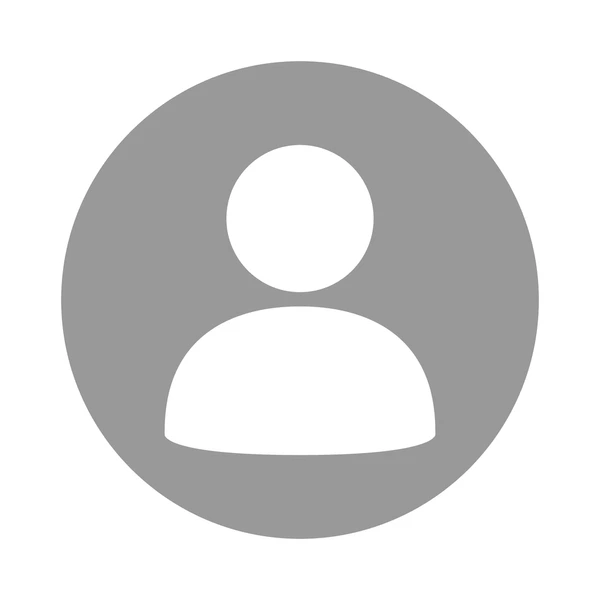
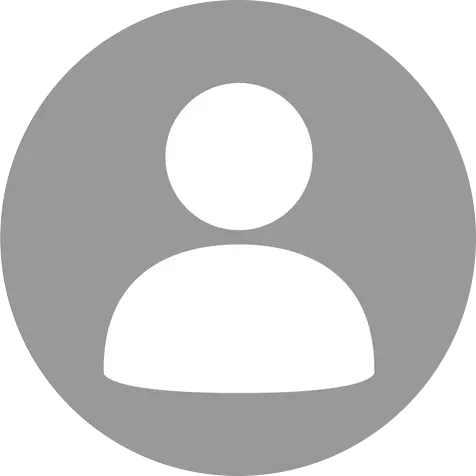
fix: authform

diff --git a/client/src/component/authForm/AuthForm.tsx b/client/src/component/authForm/AuthForm.tsx
@@ -22,8 +22,8 @@ interface AuthInputs {
   email?: string;
   usernameOrEmail?: string;
   password?: string;
-  avatar?: File;
-  coverImage?: File;
+  avatar?: File | null;
+  coverImage?: File | null;
 }
 
 export enum AuthFormType {
@@ -53,7 +53,6 @@ export default function AuthForm({
 
   const handleFormSubmit = (e: ChangeEvent<HTMLFormElement>) => {
     e.preventDefault();
-
     handleSubmit(authInputs);
   };
 
@@ -64,9 +63,11 @@ export default function AuthForm({
   }, [state]);
 
   return (
-    <div className="flex flex-col gap-3 justify-center w-[450px] max-w-[93%] before:content-[''] before:fixed before:z-0 before:h-[90vh] before:w-[12vw] max-md:before:w-[25vw] before:bg-gradient-to-tr before:from-violet-400 before:via-violet-500 before:to-violet-300 before:top-1/2 before:left-1/2 before:-translate-x-1/2 before:-translate-y-1/2 before:rotate-45 md:before:opacity-55 before:opacity-70 after:content-[''] after:fixed after:z-[1] after:h-[100vh] after:w-[100vw] after:top-0 after:left-0 after:right-0 after:bottom-0 after:bg-transparent after:backdrop-blur-3xl">
+    <div className="relative flex flex-col gap-3 justify-center w-[450px] max-w-[93%] before:content-[''] before:fixed before:z-0 before:h-[90vh] before:w-[12vw] max-md:before:w-[25vw] before:bg-gradient-to-tr before:from-violet-400 before:via-violet-500 before:to-violet-300 before:top-1/2 before:left-1/2 before:-translate-x-1/2 before:-translate-y-1/2 before:rotate-45 md:before:opacity-55 before:opacity-70 after:content-[''] after:fixed after:z-[1] after:h-[100vh] after:w-[100vw] after:top-0 after:left-0 after:right-0 after:bottom-0 after:bg-transparent after:backdrop-blur-3xl">
       {/* showing error */}
-      {error && <ErrorMessage errorMessage={error} />}
+      {error && (
+        <ErrorMessage errorMessage={error} className="relative z-[2]" />
+      )}
 
       <form
         onSubmit={handleFormSubmit}
@@ -85,16 +86,14 @@ export default function AuthForm({
             <div className="w-full flex flex-col items-center -mt-7">
               <FileUpload
                 label="Cover Image"
-                defaultImageSrc="/default-cover.png"
+                defaultImageSrc="/default-cover.webp"
                 accept=".png, .jpeg, .jpg"
                 fileType="image"
                 ref={coverImageRef}
                 className="h-24 w-full rounded-md object-cover border-2 border-dashed border-blue-500 overflow-hidden"
+                disabled={isLoading}
                 onChange={(file) =>
-                  setAuthInputs((prev: any) => ({
-                    ...prev,
-                    coverImage: file,
-                  }))
+                  setAuthInputs((prev) => ({ ...prev, coverImage: file }))
                 }
               />
               <FileUpload
@@ -104,11 +103,9 @@ export default function AuthForm({
                 fileType="image"
                 ref={avatarRef}
                 className="h-16 w-16 rounded-full object-cover -mt-8 border-2 border-white overflow-hidden"
+                disabled={isLoading}
                 onChange={(file) =>
-                  setAuthInputs((prev: any) => ({
-                    ...prev,
-                    avatar: file,
-                  }))
+                  setAuthInputs((prev) => ({ ...prev, avatar: file }))
                 }
               />
             </div>
@@ -118,11 +115,9 @@ export default function AuthForm({
               label="Full Name"
               type="text"
               value={authInputs.fullName}
+              disabled={isLoading}
               onChange={(e) =>
-                setAuthInputs((prev) => ({
-                  ...prev,
-                  fullName: e.target.value,
-                }))
+                setAuthInputs((prev) => ({ ...prev, fullName: e.target.value }))
               }
             />
 
@@ -131,11 +126,9 @@ export default function AuthForm({
               label="email"
               type="email"
               value={authInputs.email}
+              disabled={isLoading}
               onChange={(e) =>
-                setAuthInputs((prev) => ({
-                  ...prev,
-                  email: e.target.value,
-                }))
+                setAuthInputs((prev) => ({ ...prev, email: e.target.value }))
               }
             />
           </>
@@ -145,6 +138,7 @@ export default function AuthForm({
             label="Username or Email"
             type="text"
             value={authInputs.usernameOrEmail}
+            disabled={isLoading}
             onChange={(e) =>
               setAuthInputs((prev) => ({
                 ...prev,
@@ -159,17 +153,14 @@ export default function AuthForm({
           label="Password"
           type="password"
           value={authInputs.password}
+          disabled={isLoading}
           onChange={(e) =>
-            setAuthInputs((prev) => ({
-              ...prev,
-              password: e.target.value,
-            }))
+            setAuthInputs((prev) => ({ ...prev, password: e.target.value }))
           }
         />
 
         <div className="flex justify-between items-center md:gap-4 gap-2 mt-5">
           {/* link */}
-
           <button
             type="button"
             className="w-1/2 text-sm max-sm:text-[13.5px] text-gray-600 dark:text-slate-400 hover:text-gray-800 font-medium font-Noto_sans"

diff --git a/client/src/component/CoreUI/Avatar.tsx b/client/src/component/CoreUI/Avatar.tsx
@@ -13,19 +13,20 @@ export default function Avatar({
 }) {
   return (
     <div
-      className={twMerge("rounded-full overflow-hidden", className)}
+      className={twMerge(
+        "rounded-full overflow-hidden",
+        "text-lg bg-blue-500 text-white font-roboto",
+        className
+      )}
       role="button"
       onClick={onClick}
     >
       {fullName && !url ? (
-        <span
-          className="h-full w-full grid place-items-center text-lg
-         bg-blue-500 text-white font-roboto"
-        >
+        <span className="h-full w-full grid place-items-center text-inherit">
           {fullName[0].toUpperCase()}
         </span>
       ) : (
-        <img src={url || "/default-avatar.webp"} alt="avatar" />
+        <img src={url || "/default-avatar.webp"} alt="avatar" className="h-full w-full" />
       )}
     </div>
   );

diff --git a/client/src/component/FileUpload.tsx b/client/src/component/FileUpload.tsx
@@ -16,6 +16,7 @@ interface FileUploadProps {
   onChange?: (file: File | null) => void;
   accept?: string;
   className?: string;
+  disabled?: boolean;
   fileType?: "image" | "video";
 }
 
@@ -28,6 +29,7 @@ const FileUpload = React.forwardRef(
       onChange = () => {},
       accept = "",
       className = "",
+      disabled,
       fileType = "image",
     }: FileUploadProps,
     ref: RefObject<HTMLInputElement> | ForwardedRef<HTMLInputElement> | any
@@ -61,7 +63,7 @@ const FileUpload = React.forwardRef(
           className="flex items-center justify-center h-full w-full cursor-pointer overflow-hidden"
           role="button"
           title={label}
-          onClick={() => ref?.current?.click()}
+          onClick={() => !disabled && ref?.current?.click()}
         >
           {filePreview ? (
             fileType === "video" ? (

diff --git a/client/src/component/CoreUI/Logo.tsx b/client/src/component/CoreUI/Logo.tsx
@@ -4,7 +4,7 @@ import { twMerge } from "tailwind-merge";
 export default function Logo({ className = "" }: { className?: string }) {
   return (
     <Link to="/" className={twMerge("flex items-center gap-0.5", className)}>
-      <img src="/merntube-icon.png" alt="Logo" className="size-8" />
+      <img src="/merntube-icon.webp" alt="Logo" className="size-8" />
       <h2 className="text-black dark:text-slate-200 font-[600] tracking-wider font-nunito">
         MERNtube
       </h2>

diff --git a/client/src/pages/auth/Login.tsx b/client/src/pages/auth/Login.tsx
@@ -39,7 +39,7 @@ export default function Login() {
   return (
     <Layout
       showNavigationBar={false}
-      className="flex justify-center md:pt-24 pt-14 pb-7"
+      className="flex justify-center items-center pb-7"
     >
       <AuthForm
         type={AuthFormType.LOGIN}
